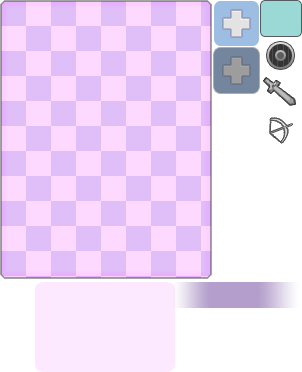
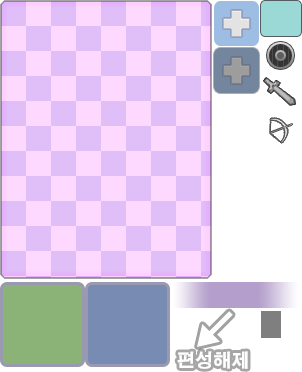
파티-멤버리스트 수정

Changed region(s): [[0.0, 0.7392, 0.8344, 1.0], [0.8642, 0.828, 0.9536, 0.9167]]

diff --git a/app/src/main/java/com/epriest/game/guildfantasy/main/Game_Member.java b/app/src/main/java/com/epriest/game/guildfantasy/main/Game_Member.java
@@ -26,19 +26,21 @@ public class Game_Member extends Game {
     public Bitmap img_membercard;
     public Bitmap img_bg;
 
-    public ArrayList<ButtonEnty> PartyButtonList = new ArrayList<>();
+//    public ArrayList<ButtonEnty> PartyButtonList = new ArrayList<>();
     public ArrayList<ButtonEnty> PartyAddButtonList = new ArrayList<>();
     public ArrayList<MemberEnty> memberList;
     public ArrayList<Bitmap> img_member;
 
-        public int cardW, cardH;
+    public final int cardW = 212;
+    public final int cardH = 280;
+
     public int cardRowNum;
     public int cardTextBoxW, cardTextBoxH;
     public int scrollY, prevScrollY;
 
     public int selectMember = -1;
 
-    public int cardX, cardY;
+    public int cardLeftX, cardTopY;
 
     public Game_Member(Game_Main gameMain) {
         this.gameMain = gameMain;
@@ -56,18 +58,16 @@ public class Game_Member extends Game {
             img_member.add(GLUtil.loadAssetsBitmap(gameMain.appClass, "member/" + memberList.get(i).image, null, 2));
         }
 
-        cardW = 212;
-        cardH = 280;
         cardRowNum = gameMain.canvasW / cardW;
 
-        cardX = 34;
-        cardY = gameMain.statusBarH + 200;
+        cardLeftX = 34;
+        cardTopY = gameMain.statusBarH + 200;
 
         if (gameMain.appClass.gameState == INN.GAME_MEMBER_FROM_PARTY) {
             setAddMemberCardList();
         }
 
-        setPartyButton();
+//        setPartyButton();
     }
 
     private void setAddMemberCardList() {
@@ -87,7 +87,7 @@ public class Game_Member extends Game {
             mBtn.clipX = 213;
             mBtn.clipY = 0;
             mBtn.drawX = 34 + (i % cardRowNum) * (cardW + 8) + cardW - mBtn.clipW;
-            mBtn.drawY = cardY + (i / cardRowNum) * (cardH + 10) + cardH - mBtn.clipH;
+            mBtn.drawY = cardTopY + (i / cardRowNum) * (cardH + 30) + cardH - mBtn.clipH;
             mBtn.name = memberList.get(i).name;
             if (!mBtn.name.equals("0")) {
                 String imgPath = memberList.get(i).image;
@@ -98,20 +98,20 @@ public class Game_Member extends Game {
     }
 
     private void setPartyButton() {
-        int memberBtnH = 84;
-        int bottomMenuY = gameMain.canvasH - memberBtnH;
-        for (int i = 0; i < 5; i++) {
-            ButtonEnty mParty = new ButtonEnty();
-            mParty.num = i;
-            mParty.name = "party" + (i + 1);
-            mParty.clipW = 95;
-            mParty.clipH = memberBtnH;
-            mParty.clipX = 0;
-            mParty.clipY = 0;
-            mParty.drawX = 30 + (mParty.clipW + 10) * i;
-            mParty.drawY = bottomMenuY + 1;
-            PartyButtonList.add(mParty);
-        }
+//        int memberBtnH = 84;
+//        int bottomMenuY = gameMain.canvasH - memberBtnH;
+//        for (int i = 0; i < 5; i++) {
+//            ButtonEnty mParty = new ButtonEnty();
+//            mParty.num = i;
+//            mParty.name = "party" + (i + 1);
+//            mParty.clipW = 95;
+//            mParty.clipH = memberBtnH;
+//            mParty.clipX = 0;
+//            mParty.clipY = 0;
+//            mParty.drawX = 30 + (mParty.clipW + 10) * i;
+//            mParty.drawY = bottomMenuY + 1;
+//            PartyButtonList.add(mParty);
+//        }
     }
 
     @Override
@@ -133,7 +133,7 @@ public class Game_Member extends Game {
         if (gameMain.appClass.gameState == INN.GAME_MEMBER_FROM_PARTY) {
             for (int i = 0; i < PartyAddButtonList.size(); i++) {
                 ButtonEnty btn = PartyAddButtonList.get(i);
-                if (GameUtil.equalsTouch(gameMain.appClass.touch, btn.drawX, btn.drawY, btn.clipW, btn.clipH+scrollY)) {
+                if (GameUtil.equalsTouch(gameMain.appClass.touch, btn.drawX, btn.drawY + scrollY, btn.clipW, btn.clipH + scrollY)) {
                     switch (gameMain.appClass.touch.action) {
                         case MotionEvent.ACTION_DOWN:
                             btn.clickState = ButtonEnty.ButtonClickOn;
@@ -163,9 +163,9 @@ public class Game_Member extends Game {
             prevScrollY = scrollY;
         } else if (event.getAction() == MotionEvent.ACTION_UP) {
             if (prevScrollY == scrollY) {
-                selectMember = (((int) gameMain.appClass.touch.mLastTouchX - cardX) / cardW)
-                        + (((int) gameMain.appClass.touch.mLastTouchY + scrollY - cardY) / cardH) * cardRowNum;
-                if(gameMain.userEnty.MEMBERLIST.size() < selectMember) {
+                selectMember = (((int) gameMain.appClass.touch.mLastTouchX - cardLeftX) / cardW)
+                        + (((int) gameMain.appClass.touch.mLastTouchY + scrollY - cardTopY) / cardH) * cardRowNum;
+                if (gameMain.userEnty.MEMBERLIST.size() < selectMember) {
                     selectMember = -1;
                 }
 //                gameMain.userEnty.MEMBERLIST.get(selectMember).party_number = gameMain.selectCardNum;
@@ -181,7 +181,7 @@ public class Game_Member extends Game {
             }
         }
         scrollY = prevScrollY - (int) (gameMain.appClass.touch.mLastTouchY - gameMain.appClass.touch.mDownY);
-        int maxScrollY = (gameMain.userEnty.MEMBERLIST.size() / cardRowNum) * (cardH + 30) - (gameMain.canvasH - cardY);
+        int maxScrollY = (gameMain.userEnty.MEMBERLIST.size() / cardRowNum) * (cardH + 30) - (gameMain.canvasH - cardTopY);
         if (maxScrollY < 0)
             maxScrollY = 0;
         if (scrollY < 0)

diff --git a/app/src/main/java/com/epriest/game/guildfantasy/main/Game_Quest.java b/app/src/main/java/com/epriest/game/guildfantasy/main/Game_Quest.java
@@ -11,6 +11,7 @@ import com.epriest.game.CanvasGL.util.ButtonSprite;
 import com.epriest.game.CanvasGL.util.Game;
 import com.epriest.game.CanvasGL.util.GameUtil;
 import com.epriest.game.guildfantasy.main.enty.ButtonEnty;
+import com.epriest.game.guildfantasy.main.enty.PartyEnty;
 import com.epriest.game.guildfantasy.main.enty.QuestEnty;
 import com.epriest.game.guildfantasy.main.play.DataManager;
 import com.epriest.game.guildfantasy.util.DialogActivity;
@@ -36,10 +37,19 @@ public class Game_Quest extends Game {
     public Bitmap img_questBitmap;
     public Bitmap img_membercard;
 
+    /**
+     * 파티 멤버 아이콘
+     */
     public ArrayList<ButtonEnty> partyEntyList;
 
+    /**
+     * 출발 버튼
+     */
     public ButtonEnty nextBtnEnty;
 
+    /**
+     * 현재 퀘스트
+     */
     public QuestEnty questEnty;
 
     public enum QuestType{
@@ -98,6 +108,7 @@ public class Game_Quest extends Game {
         partyEntyList = new ArrayList<>();
         for(int i=0; i<4; i++){
             ButtonEnty enty = new ButtonEnty();
+            enty.num = i;
             enty.clipW = 106;
             enty.clipH = 140;
             enty.clipX = 0;
@@ -105,6 +116,21 @@ public class Game_Quest extends Game {
             enty.drawX = i*(enty.clipW+10) + (canvasW - 4*(enty.clipW+10))/2;
             enty.drawY = canvasH - enty.clipH - 180;
             partyEntyList.add(enty);
+        }
+        int partyMemberNum = 0;
+        PartyEnty currentParty = DataManager.getPartyData(
+                gameMain.dbAdapter, gameMain.userEnty.Name, gameMain.getSelectPartyNum());
+        for(int i=0; i<9; i++) {
+            if(partyMemberNum == 4) {
+                break;
+            }
+            String name = currentParty.memberPos[i];
+            if (!name.equals("0")) {
+                String imgPath = DataManager.getMemberData(gameMain.dbAdapter, name).image;
+                partyEntyList.get(partyMemberNum).bitmap = GLUtil.loadAssetsBitmap(gameMain.appClass, "member/" + imgPath, null, 2);
+                partyEntyList.get(partyMemberNum).name = name;
+                partyMemberNum++;
+            }
         }
     }
 
@@ -123,12 +149,26 @@ public class Game_Quest extends Game {
         if (gameMain.onStatusTouch())
             return;
 
+        //파티편성으로 진입
+        for(ButtonEnty enty : partyEntyList) {
+            if (GameUtil.equalsTouch(gameMain.appClass.touch, enty.drawX, enty.drawY,
+                    enty.clipW, enty.clipH)) {
+                enty.clickState = ButtonEnty.ButtonClickOn;
+                if (gameMain.appClass.touch.action == MotionEvent.ACTION_UP) {
+                    enty.clickState = ButtonEnty.ButtonClickOff;
+                    gameMain.mainButtonAct(INN.GAME_PARTY);
+                }
+                return;
+            }
+        }
+
+        //던전으로 출발
         if (GameUtil.equalsTouch(gameMain.appClass.touch, nextBtnEnty.drawX, nextBtnEnty.drawY,
                 nextBtnEnty.clipW, nextBtnEnty.clipH)) {
             nextBtnEnty.clickState = ButtonEnty.ButtonClickOn;
             if (gameMain.appClass.touch.action == MotionEvent.ACTION_UP) {
                 nextBtnEnty.clickState = ButtonEnty.ButtonClickOff;
-                gameMain.mainButtonAct(INN.GAME_PARTY);
+//                gameMain.mainButtonAct(INN.GAME_PARTY);
             }
             return;
         }

diff --git a/app/src/main/java/com/epriest/game/guildfantasy/main/Scene_Member.java b/app/src/main/java/com/epriest/game/guildfantasy/main/Scene_Member.java
@@ -62,10 +62,10 @@ public class Scene_Member extends Scene {
         int cardTextBoxY = gameMember.cardH - gameMember.cardTextBoxH - 15;
 
         for (int i = 0; i < gameMember.memberList.size(); i++) {
-            int cx = gameMember.cardX + i % gameMember.cardRowNum * (gameMember.cardW + 10);
-            int cy = gameMember.cardY + i / gameMember.cardRowNum * (gameMember.cardH + 30) - gameMember.scrollY;
+            int cx = gameMember.cardLeftX + i % gameMember.cardRowNum * (gameMember.cardW + 10);
+            int cy = gameMember.cardTopY + i / gameMember.cardRowNum * (gameMember.cardH + 30) - gameMember.scrollY;
 
-            if (cy < gameMember.cardY - gameMember.cardH || cy > gameMember.gameMain.canvasH) {
+            if (cy < gameMember.cardTopY - gameMember.cardH || cy > gameMember.gameMain.canvasH) {
             } else {
                 drawMemberCard(mCanvas, i, cx, cy, chrImgX, chrImgY, cardTextBoxY);
             }
@@ -74,7 +74,7 @@ public class Scene_Member extends Scene {
         DrawUtil.drawString(mCanvas, "" + gameMember.gameMain.selectCardNum, 30,
                 Color.YELLOW, Paint.Align.LEFT, 300, 120);
 
-        drawPartyButton(mCanvas);
+//        drawPartyButton(mCanvas);
         gameMember.gameMain.drawStatusTab(mCanvas);
 
 //        if (gameMember.gameMain.alertManager.showAlertType == AlertManager.ALERT_TYPE_VIEWMEMBER) {
@@ -106,6 +106,7 @@ public class Scene_Member extends Scene {
         DrawUtil.drawString(mCanvas, "LV." + Integer.toString(enty.status.LEVEL), 20,
                 Color.DKGRAY, Paint.Align.LEFT, cx + 15, cy + 3);
 
+        //편성버튼
         if (gameMember.gameMain.appClass.gameState == INN.GAME_MEMBER_FROM_PARTY) {
             for (int i = 0; i < gameMember.PartyAddButtonList.size(); i++) {
                 ButtonEnty mBtn = gameMember.PartyAddButtonList.get(i);
@@ -134,17 +135,17 @@ public class Scene_Member extends Scene {
     }
 
     private void drawPartyButton(Canvas mCanvas) {
-        for (ButtonEnty mBtn : gameMember.PartyButtonList) {
-            int clipY = mBtn.clipY;
-            if (mBtn.clickState == ButtonEnty.ButtonClickOn || gameMember.gameMain.getSelectPartyNum() == mBtn.num) {
-                clipY += 84;
-            }
-            DrawUtil.drawClip(gameMember.gameMain.img_mainBtn, mCanvas, mBtn.clipX, clipY,
-                    mBtn.clipW, mBtn.clipH, mBtn.drawX, mBtn.drawY);
-//            DrawUtil.drawClip(gameMember.gameMain.img_statusBar, mCanvas, (mBtn.num + 1) * 16,
-//                    98, 14, 24,
-//                    mBtn.drawX + (mBtn.clipW - 15) / 2, mBtn.drawY + (mBtn.clipH - 24) / 2);
-        }
+//        for (ButtonEnty mBtn : gameMember.PartyButtonList) {
+//            int clipY = mBtn.clipY;
+//            if (mBtn.clickState == ButtonEnty.ButtonClickOn || gameMember.gameMain.getSelectPartyNum() == mBtn.num) {
+//                clipY += 84;
+//            }
+//            DrawUtil.drawClip(gameMember.gameMain.img_mainBtn, mCanvas, mBtn.clipX, clipY,
+//                    mBtn.clipW, mBtn.clipH, mBtn.drawX, mBtn.drawY);
+////            DrawUtil.drawClip(gameMember.gameMain.img_statusBar, mCanvas, (mBtn.num + 1) * 16,
+////                    98, 14, 24,
+////                    mBtn.drawX + (mBtn.clipW - 15) / 2, mBtn.drawY + (mBtn.clipH - 24) / 2);
+//        }
     }
 
     private void drawMemberSheet(Canvas mCanvas) {

diff --git a/app/src/main/java/com/epriest/game/guildfantasy/main/Scene_Quest.java b/app/src/main/java/com/epriest/game/guildfantasy/main/Scene_Quest.java
@@ -105,6 +105,11 @@ public class Scene_Quest extends Scene {
         for (ButtonEnty enty : gameQuest.partyEntyList) {
             DrawUtil.drawClip(gameQuest.img_membercard, mCanvas, enty.clipX, enty.clipY,
                     enty.clipW, enty.clipH, enty.drawX, enty.drawY);
+            if(enty.name != null) {
+                DrawUtil.drawClip(enty.bitmap, mCanvas,
+                        (enty.bitmap.getWidth() - enty.clipW) / 2, 20,
+                        enty.clipW - 10, enty.clipH - 10, enty.drawX + 5, enty.drawY + 5);
+            }
         }
 
     }

diff --git a/app/src/main/java/com/epriest/game/guildfantasy/main/Game_Party.java b/app/src/main/java/com/epriest/game/guildfantasy/main/Game_Party.java
@@ -163,11 +163,10 @@ public class Game_Party extends Game {
             backBtn.clickState = ButtonEnty.ButtonClickOn;
             if (gameMain.appClass.touch.action == MotionEvent.ACTION_UP) {
                 backBtn.clickState = ButtonEnty.ButtonClickOff;
-                gameMain.mainButtonAct(INN.GAME_HOME);
+                gameMain.mainButtonAct(INN.GAME_QUEST);
             }
             return;
         }
-
 
         for (int i = 0; i < PartyNumButtonList.size(); i++) {
             ButtonEnty btn = PartyNumButtonList.get(i);
